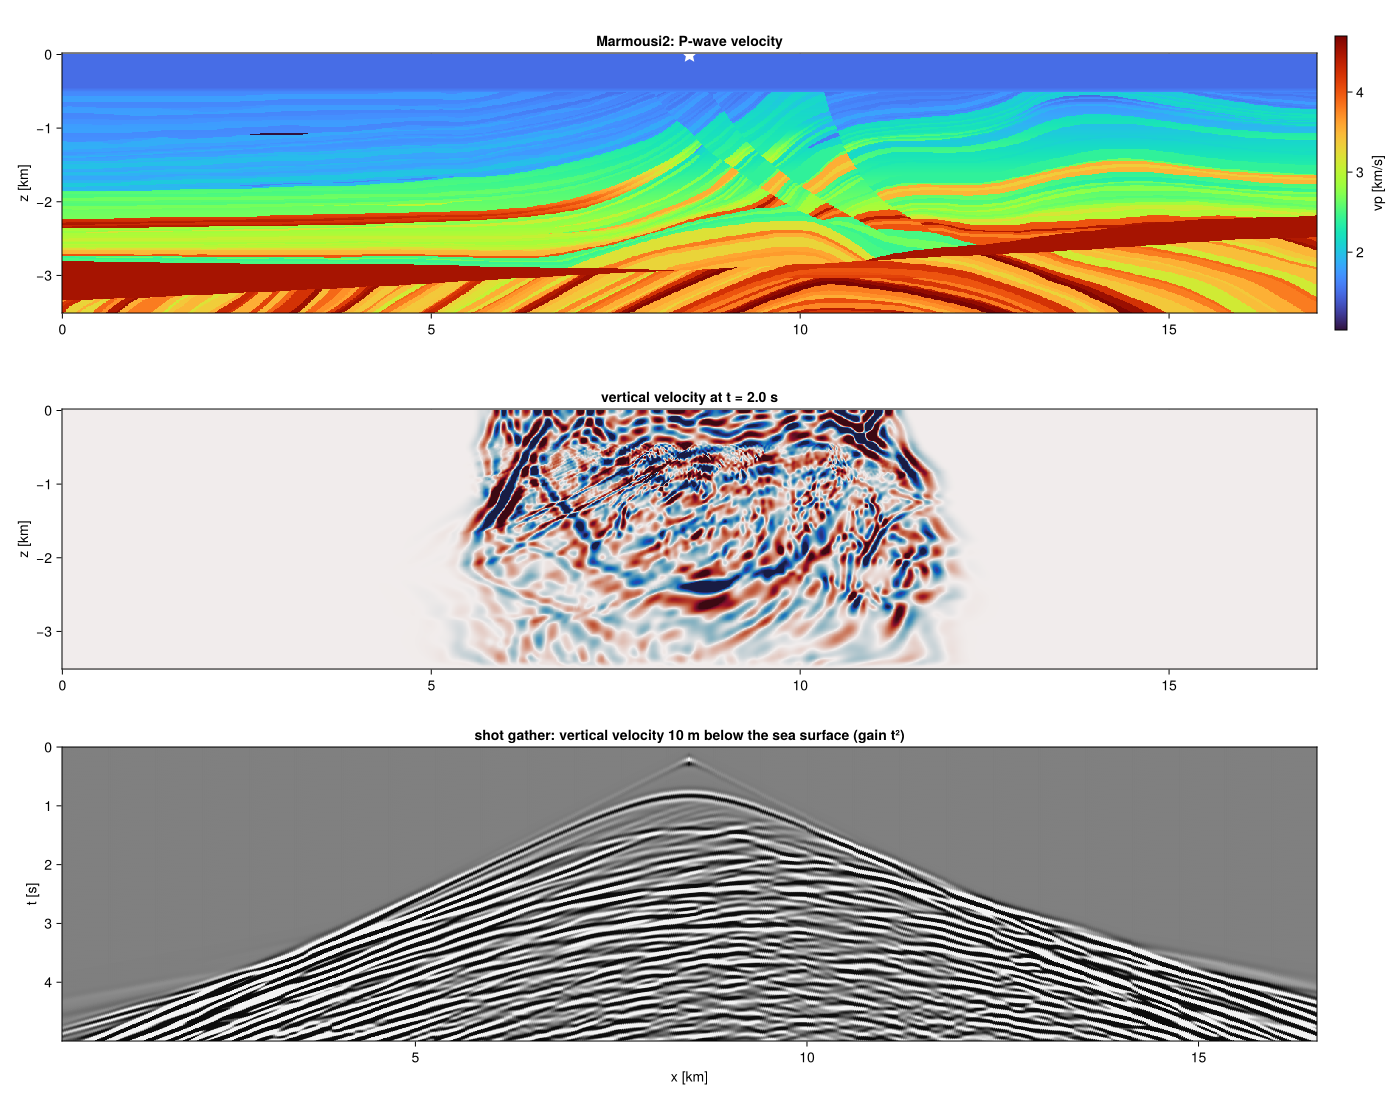
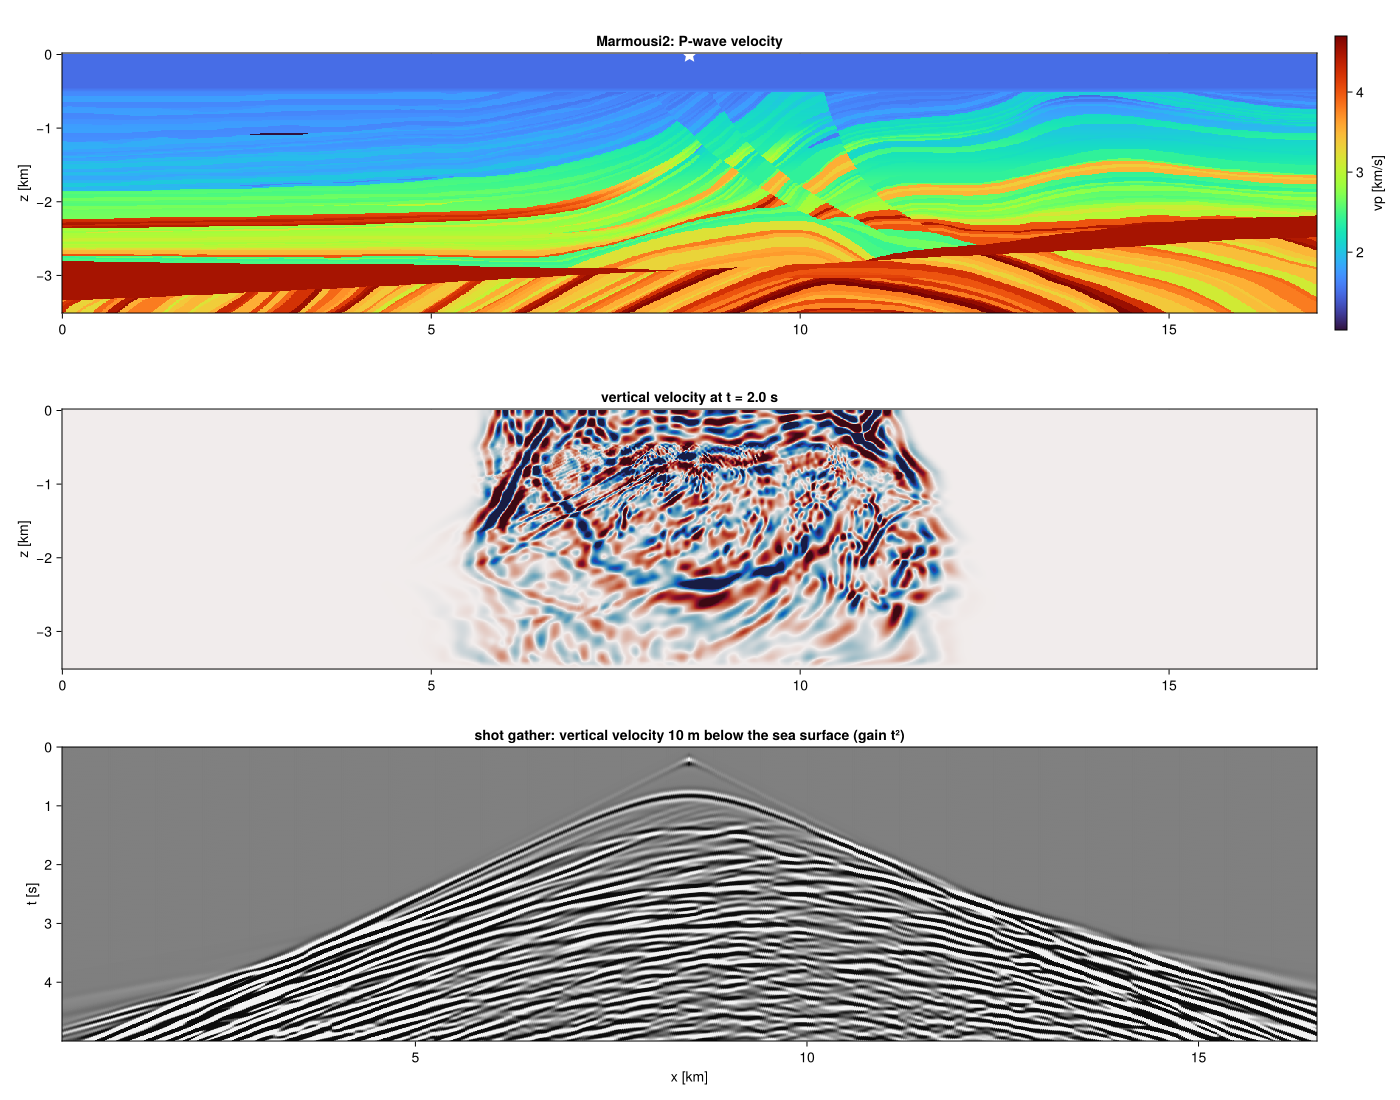
Marmousi2: movie of the waves over the velocity model (transparent where weak), in the README

Changed region(s): [[0.3071, 0.3709, 0.6757, 0.6182]]

diff --git a/README.md b/README.md
@@ -201,7 +201,10 @@ The tests also check:
 ### Marmousi2
 
 The elastic Marmousi2 model (Martin et al., 2006; 17 km × 3.5 km, 451 m of water) is the classic benchmark of seismic wave
-propagation codes. [`examples/Marmousi2.jl`](examples/Marmousi2.jl) downloads it and simulates a marine shot:
+propagation codes. [`examples/Marmousi2.jl`](examples/Marmousi2.jl) downloads it, simulates a marine shot and makes a movie of
+the waves over the P-wave velocity while the simulation runs (10 m grid, 5 s, 12 s on a laptop):
+
+![Waves in Marmousi2](docs/src/assets/Marmousi2.gif)
 
 ![Marmousi2](docs/src/assets/Marmousi2.png)
 
